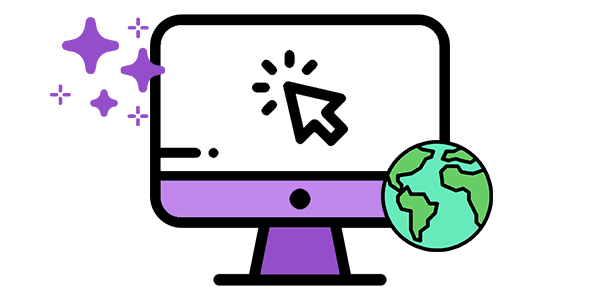
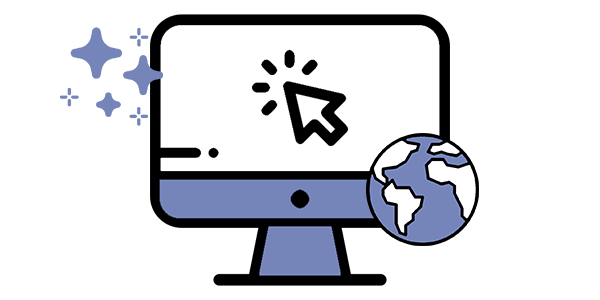
change feature list color set

Changed region(s): [[0.24, 0.42, 0.84, 0.93], [0.09, 0.06, 0.27, 0.42]]

diff --git a/src/component/FeatureList.jsx b/src/component/FeatureList.jsx
@@ -17,7 +17,7 @@ class Feature extends Component {
     }
 
     loadImage(imageName) {
-        import(`images/${imageName}`).then(image => {
+        import(`images/values/${imageName}.png`).then(image => {            
             this.setState({
                 image: image.default
             });
@@ -51,17 +51,17 @@ class FeatureList extends Component {
                 {
                     title: '網羅各國好設計',
                     details: '你無須走出家門，透過網路即可找到最適合你的商品！',
-                    imageName: 'values/full-collection.png',
+                    imageName: 'full-collection',
                 },
                 {
                     title: '優惠特價好所在',
                     details: '貨比三家不吃虧，以更優惠的價格買到你心目中的設計。',
-                    imageName: 'values/discount.png',
+                    imageName: 'discount2',
                 },
                 {
                     title: '消費資訊不外洩',
                     details: '由專業團隊為你的個資做層層把關，保障你的消費權益！',
-                    imageName: 'values/security.png',
+                    imageName: 'security',
                 },
             ]
         };

diff --git a/src/decoration/FeatureList.css b/src/decoration/FeatureList.css
@@ -57,7 +57,7 @@
     color: #39393e;
     font-weight: 400;
     display: block;
-    margin-top: 14px;
+    margin-top: 6px;
     font-size: 14px;
     line-height: 1.6;
 }
